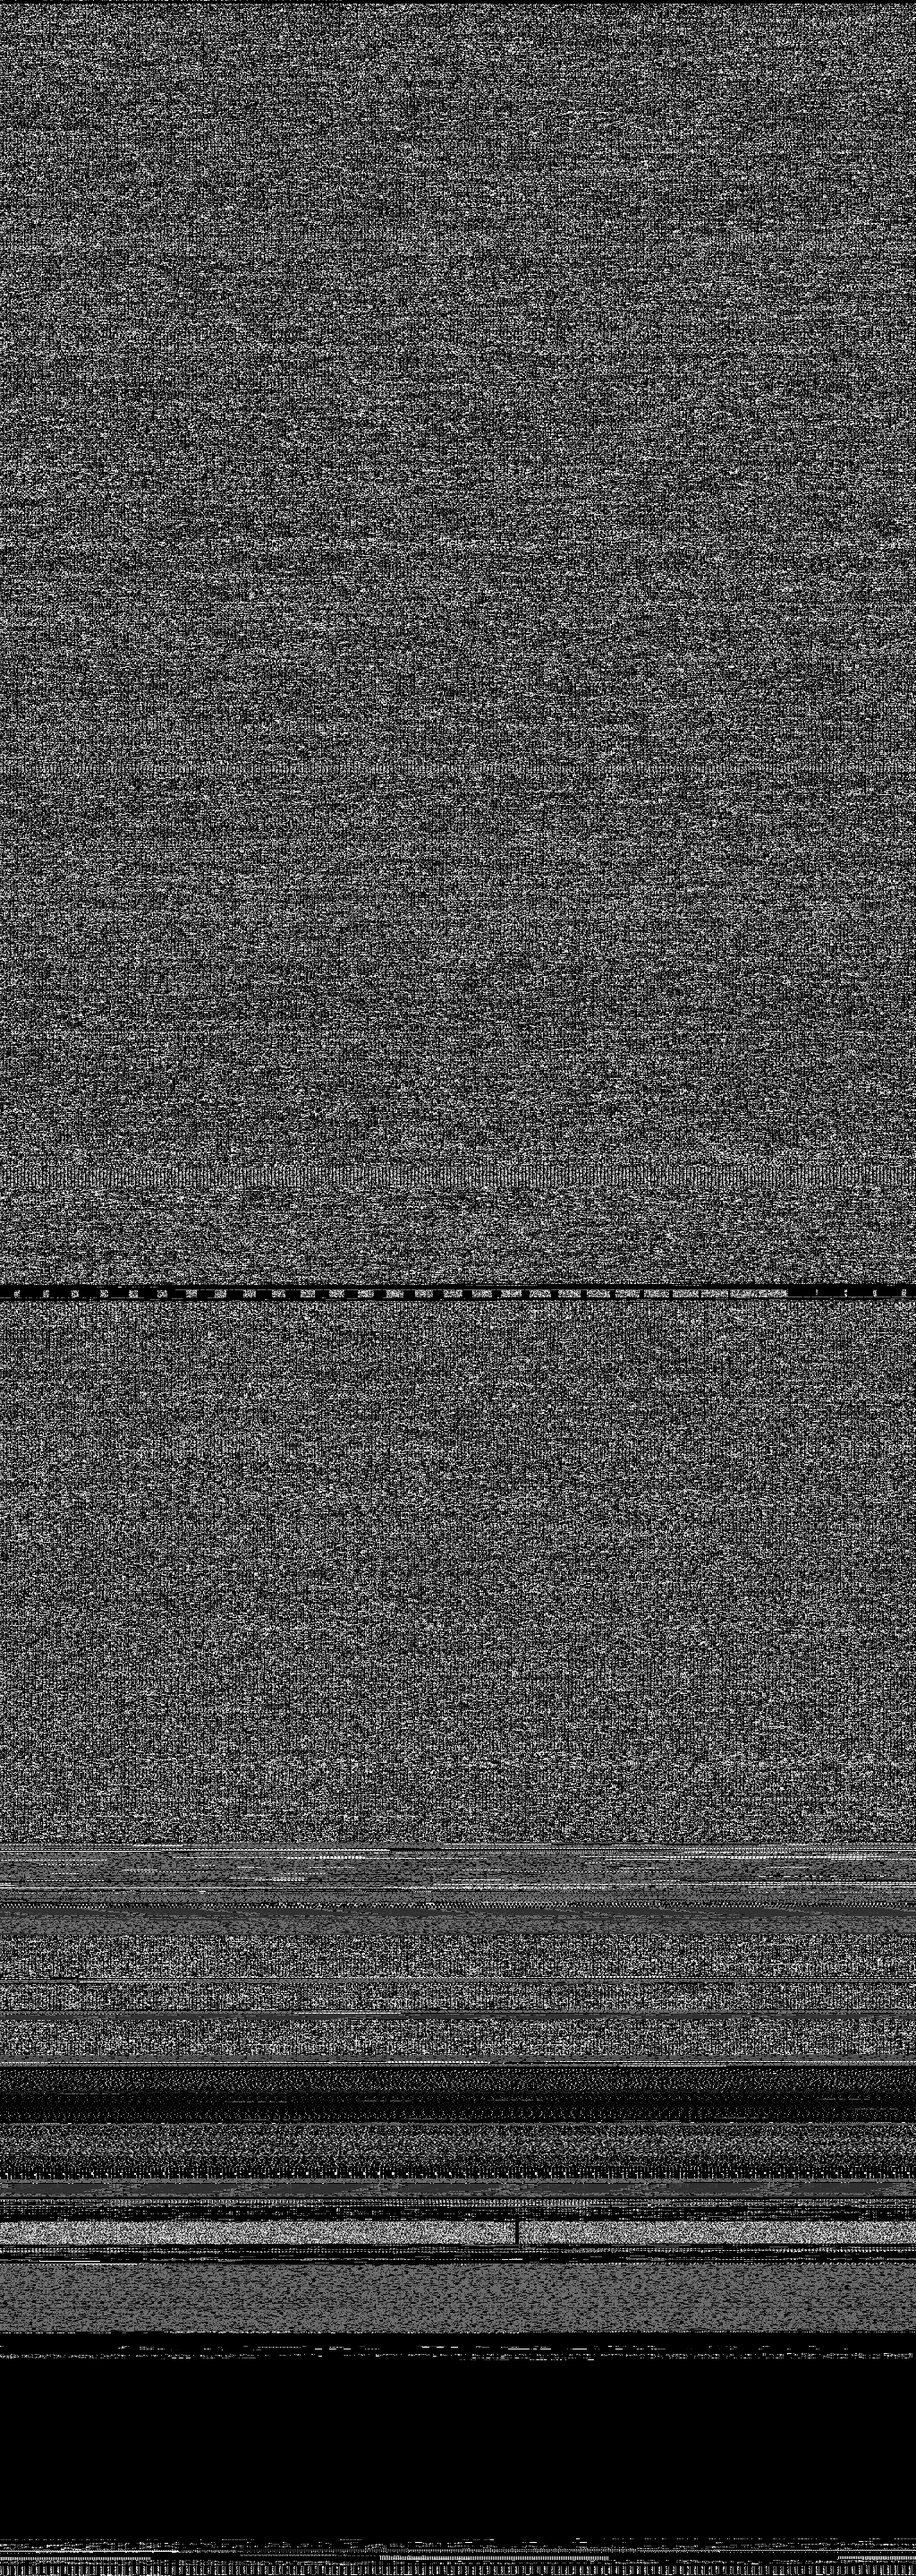
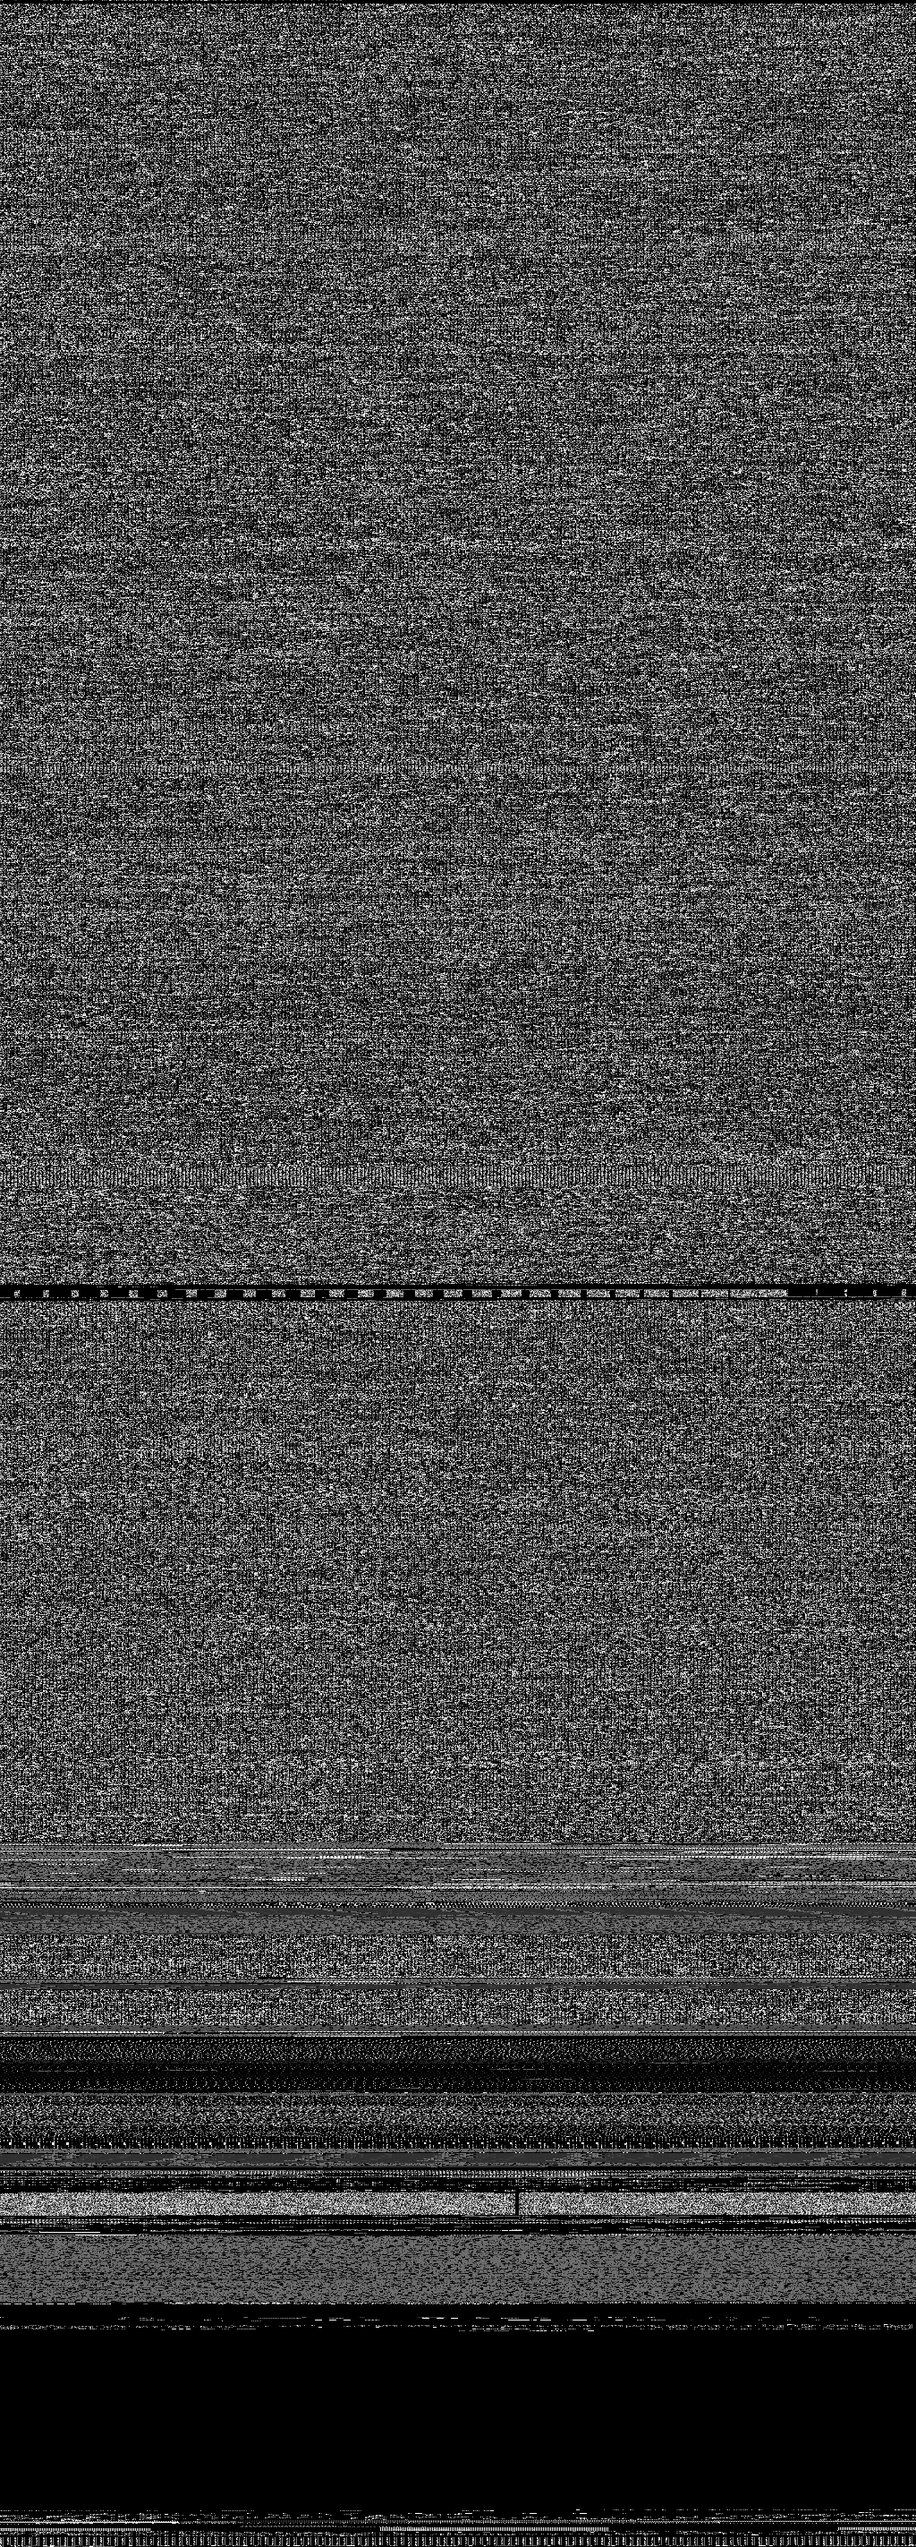
Update - more debug.

diff --git a/Assets/vrc-rv32ima/rv32ima.cs b/Assets/vrc-rv32ima/rv32ima.cs
@@ -67,14 +67,14 @@ public class rv32ima : UdonSharpBehaviour
 		}
 
 		int i;
+		System.DateTime now = System.DateTime.Now;
+		System.TimeSpan diff = System.DateTime.Now - last;
+		double elapsed = diff.TotalSeconds * timeCompression;
 		for( i = 0; i < do_iterations; i++ )
 		{
 			bool bIsOddFrame = (frames & 1) != 0;
-			System.DateTime now = System.DateTime.Now;
-			System.TimeSpan diff = System.DateTime.Now - last;
-			double elapsed = diff.TotalSeconds * timeCompression;
 			last = now;
-			computeMaterial.SetFloat( "_ElapsedTime", (float)elapsed );
+			computeMaterial.SetFloat( "_ElapsedTime", (float)(elapsed/do_iterations) );
 			VRCGraphics.Blit( null, computeBuffer, computeMaterial, -1 ); 
 			VRCGraphics.Blit( null, systemMemory, systemWriter, -1 ); 
 
